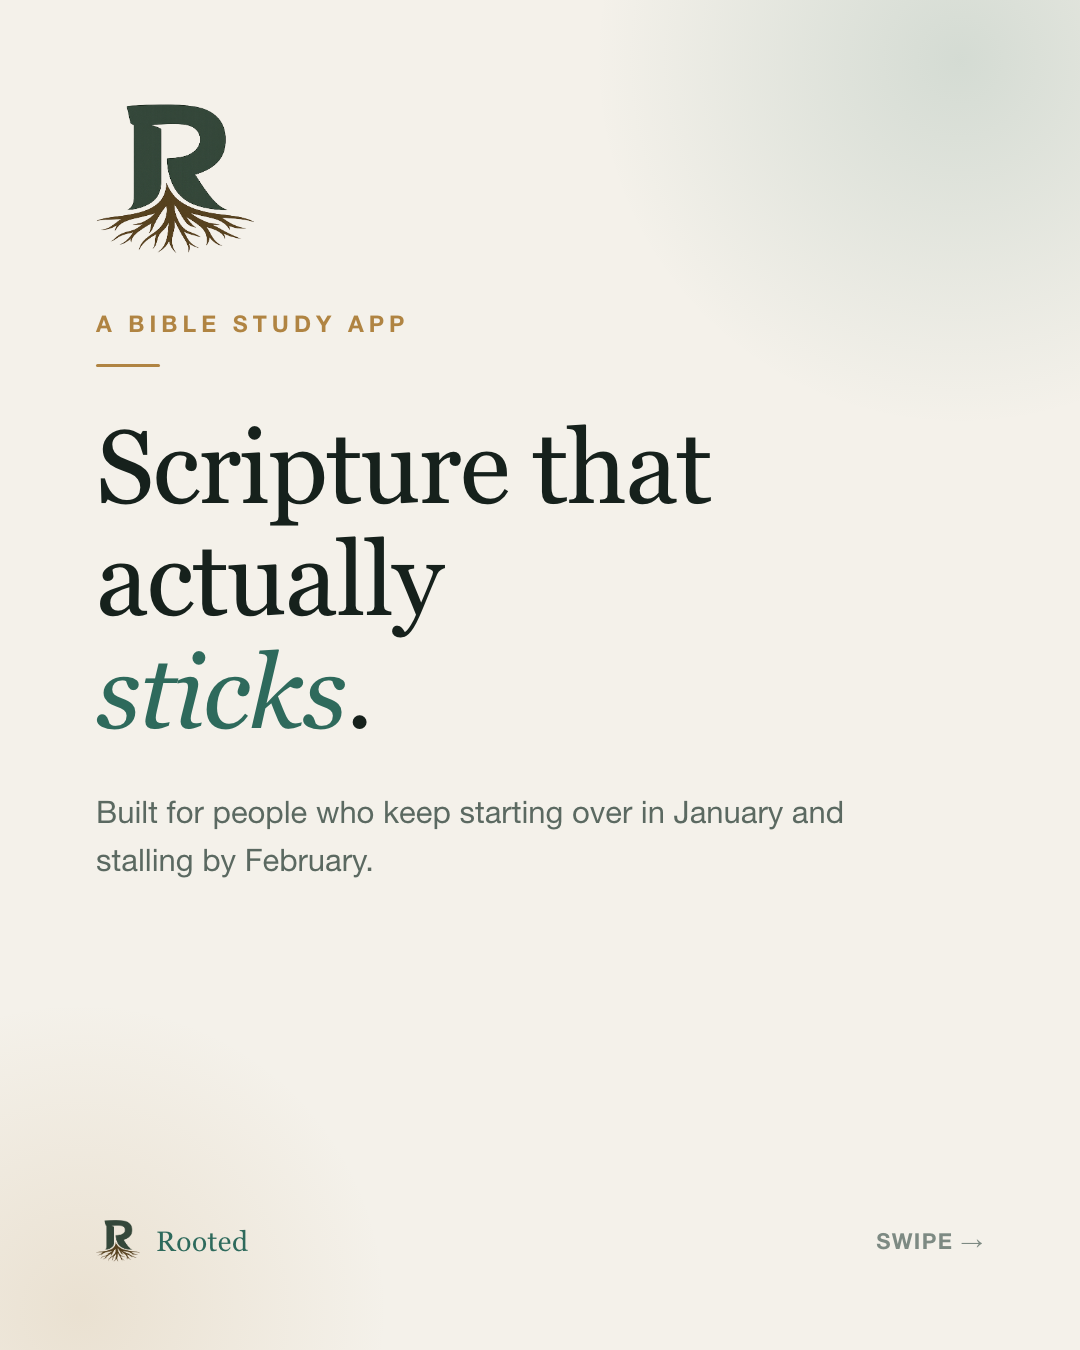
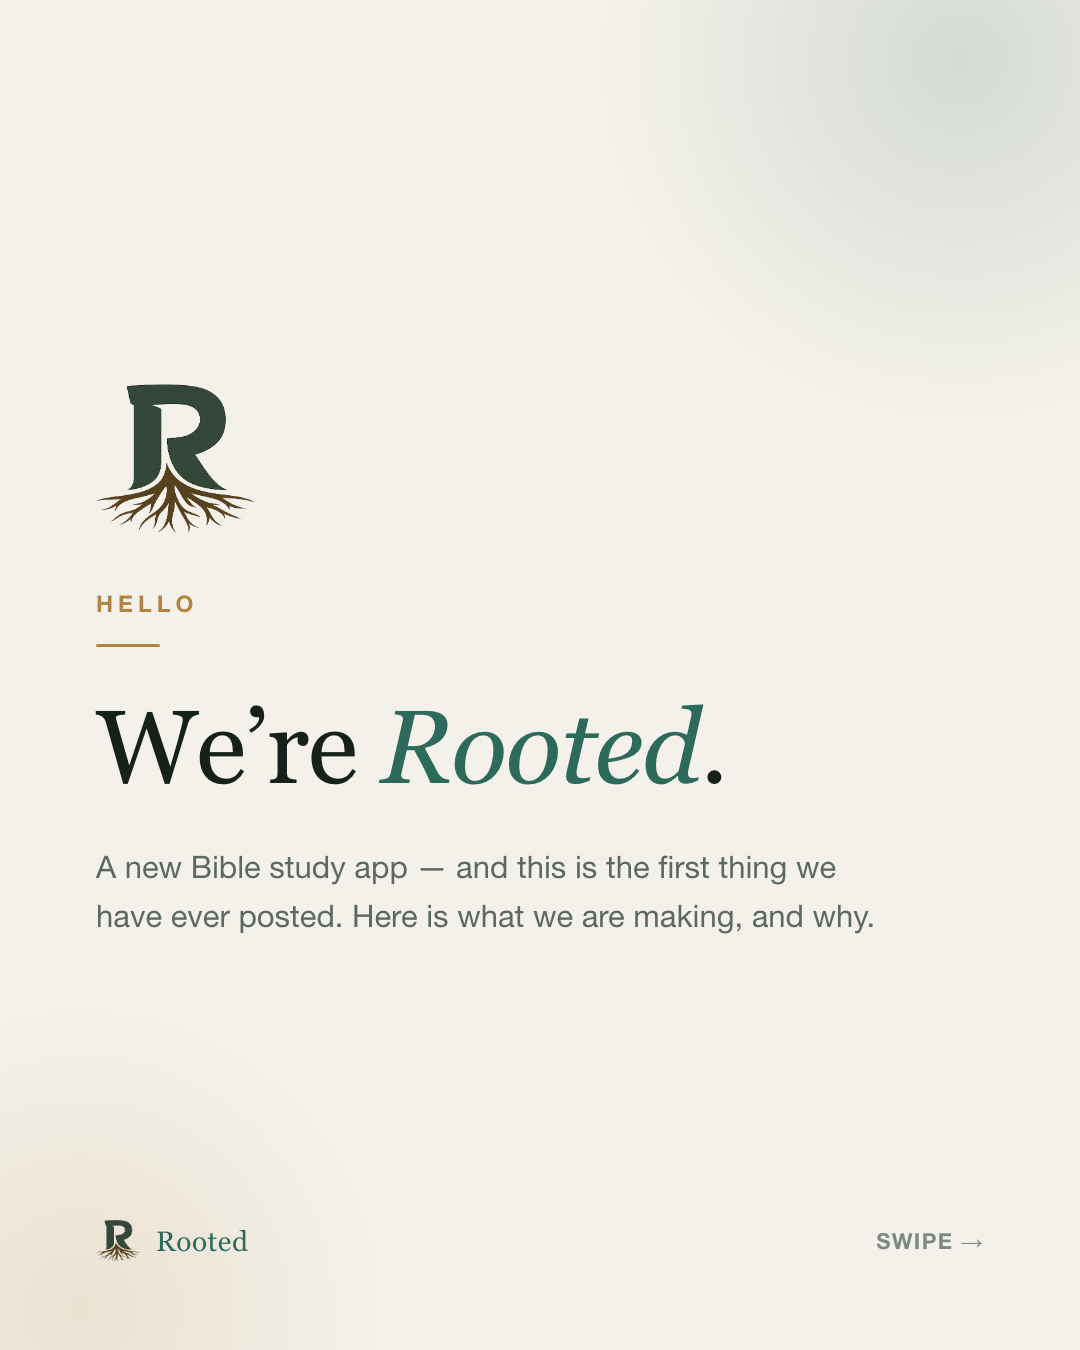
Recast the carousel as an introduction, not a feature tour
This is the account's first post, so the job is to say who this is and why
it exists before it lists anything it can do. The arc now runs hello, where
the name comes from, the problem, what we made, how it is meant to be used,
what we promise, where we are, come with us.

The name slide carries Colossians 2:7, which opens on the word "Rooted" — a
better answer to "why is it called that" than anything written for a post.

The deep feature slides came out. What is left of them is one overview grid,
because a stranger meeting the app needs the shape of it, not a tour of
every screen. The promises slide only claims behaviour the app already has.

Changed region(s): [[0.0917, 0.28, 0.7944, 0.6844], [0.0917, 0.0622, 0.2139, 0.1867], [0.0917, 0.2178, 0.3667, 0.2489]]

diff --git a/marketing/instagram/caption.md b/marketing/instagram/caption.md
@@ -1,40 +1,64 @@
-# Launch carousel — caption
+# First post — introduction carousel
 
 Slides: `out/rooted-carousel-1.png` … `-8.png`, in order. 1080×1350 (4:5).
+
+Arc: hello → where the name comes from → the problem → what we made → how it
+is meant to be used → what we promise → where we are → come with us.
 
 ---
 
 ## Caption
 
-Most Bible apps show you the same thirty verses on a loop. You notice by
-February, and by March you have stopped opening it.
+Hello. We’re Rooted.
 
-Rooted is built the other way round.
+We are building a Bible study app, and this is the first thing we have ever
+posted — so it seems right to start with why.
 
-→ The whole Bible, offline, with no account and no sign-up
-→ A different verse every day for five and a half years before one repeats
-→ Study plans you follow with other people, so you actually finish
-→ Sermon notes that keep the preacher, the passage and the series together
-→ A prayer list you can mark answered, and quizzes on what you just read
+Most Bible plans die in February. Not for lack of wanting. You start in
+January, miss four days in a row, open the app to a wall of red, and quietly
+stop. We have all done it.
 
-Reading stays free. Always.
+So we are making something you can keep up with. The whole Bible, offline,
+free to read with no account. A different verse each morning that will not
+repeat for five and a half years. Plans you follow alongside other people, so
+missing a Tuesday does not end the whole thing. Somewhere for Sunday’s
+sermon notes and your prayer list to live.
 
-Coming to iOS. 🌱
+The name comes from Colossians 2:7 — “Rooted and built up in him.” Roots do
+their work out of sight, slowly, long before anything shows above ground.
+That felt like the right picture for time spent in Scripture.
+
+It is in testing on iOS now. Follow along and watch it grow. 🌱
 
 ---
 
 ## Hashtags
 
-#BibleStudy #BibleApp #DailyVerse #Scripture #QuietTime #FaithTech
-#ChristianApp #BibleReadingPlan #VerseOfTheDay #Devotional
+#BibleStudy #BibleApp #DailyVerse #Scripture #QuietTime #Colossians27
+#ChristianApp #BibleReadingPlan #VerseOfTheDay #Devotional #FaithTech
 
 ---
 
-## Notes before posting
+## Before posting
 
-- The verse-of-the-day figures are real: 2,011 verses in the pool, which is
-  5.5 years at one a day. Do not round them up in comments.
-- "Coming to iOS" is accurate today — the app is on TestFlight, not the App
-  Store. Swap slide 8 for a real link once it ships.
-- The names on the plans slide (Ama, Kwesi, Nana) are invented, and the sermon
-  note is written for the post. Nothing here is a real person's data.
+- **Slide 8 says "Coming to iOS."** That is true today — Rooted is on
+  TestFlight, not the App Store. Swap it for a real link once it ships, then
+  re-run `node marketing/instagram/build-carousel.mjs`.
+- **The numbers are real.** 66 books and 31,100 verses bundled, 2,011 in the
+  verse pool, 5.5 years before a repeat. Do not round them up in the comments.
+- **Nothing here is a real person's data.** The names on the plans slide (Ama,
+  Kwesi, Nana) and the join code are invented for the post.
+- The four promises on slide 6 all describe how the app behaves today. If any
+  of them stops being true, pull the slide rather than quietly reword it — a
+  first post is the worst place to make a promise you have to walk back.
+
+---
+
+## Rebuilding
+
+```bash
+node marketing/instagram/build-carousel.mjs
+```
+
+Edit the `slides` array to change copy; every slide re-renders. The palette is
+the app's own, so it stays in step with the product.
